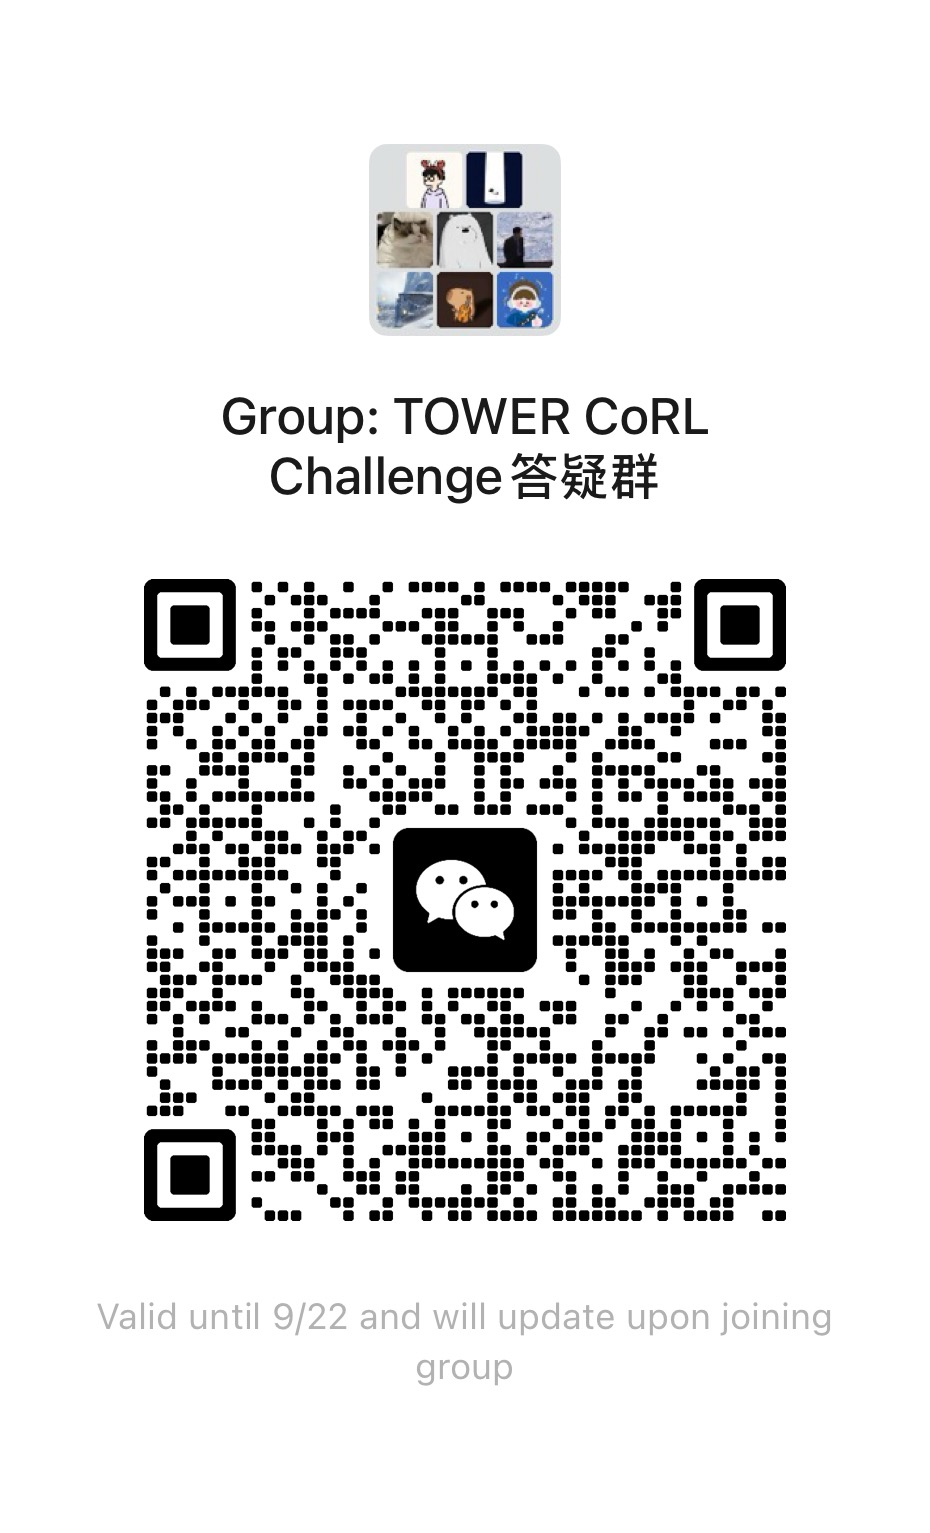
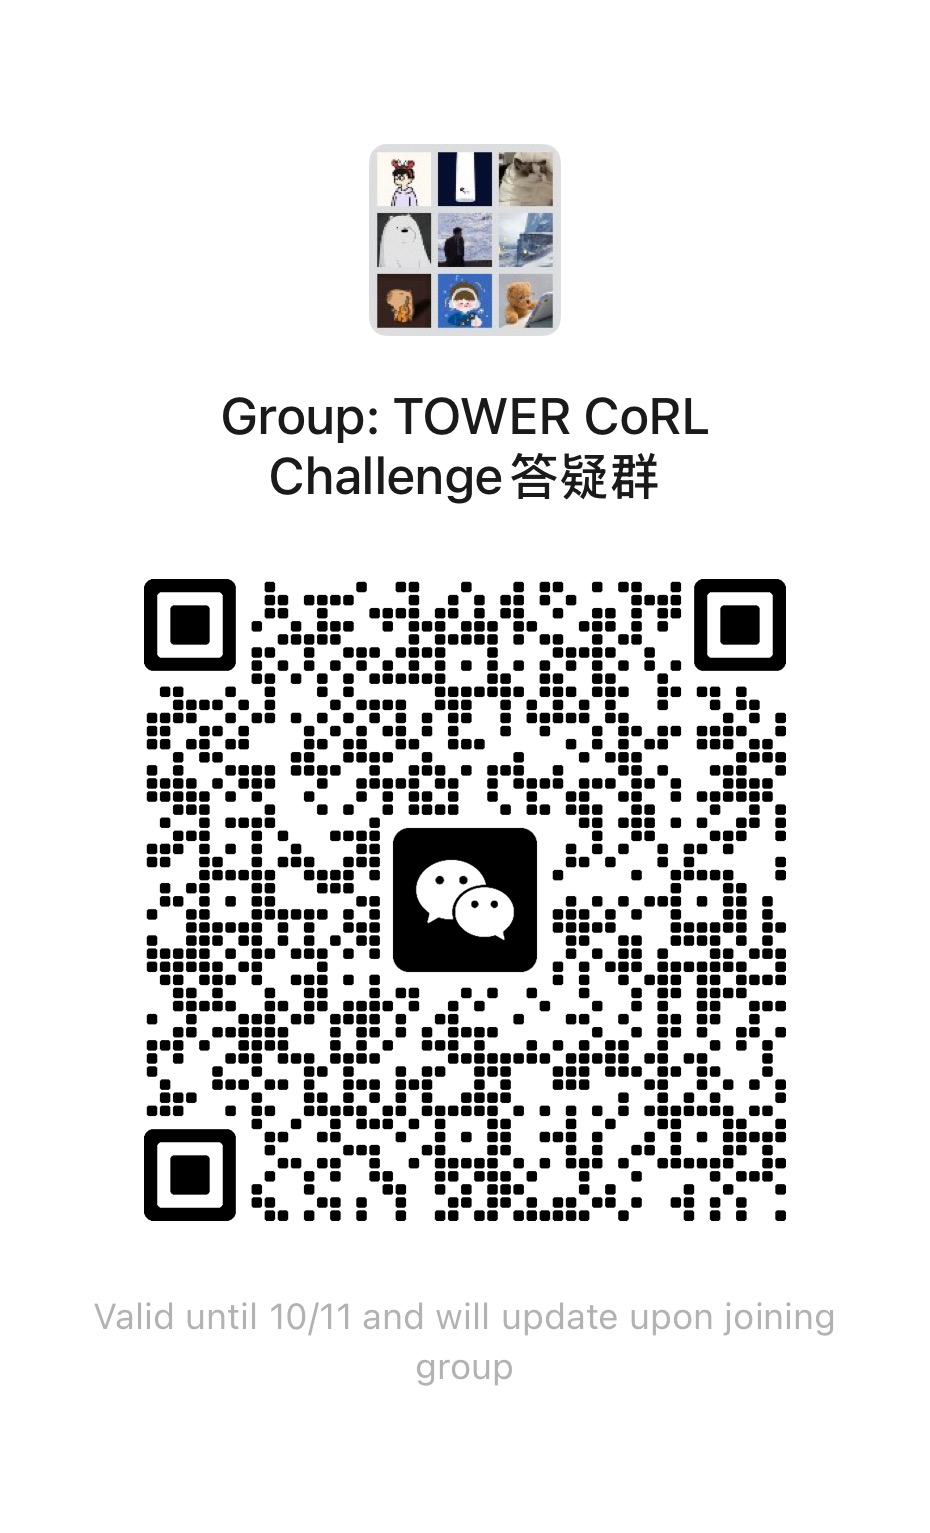
Submit via challenge website; link docs and leaderboard; refresh WeChat QR

diff --git a/README.md b/README.md
@@ -3,6 +3,9 @@
   <h1>TOWER CoRL Challenge</h1>
   <p><strong>Long-horizon bimanual tower manipulation · <a href="https://actiongapworkshop.github.io/">G2A: From Generative Models to Robot Actions (CoRL 2026 Workshop)</a></strong></p>
   <p>
+    <a href="https://challenge.tower-benchmark.com/">Website</a> ·
+    <a href="https://challenge.tower-benchmark.com/docs/">Docs</a> ·
+    <a href="https://huggingface.co/spaces/tower-benchmark/TOWER-Leaderboard">Leaderboard</a> ·
     <a href="#how-to-participate">Participate</a> ·
     <a href="#submit-your-run">Submit your run</a> ·
     <a href="docs/protocol.md">Protocol</a> ·
@@ -15,17 +18,19 @@ Long-horizon bimanual block-tower manipulation in simulation. Train a policy on
 **TOWER-SimData**, serve it behind a WebSocket endpoint, and the organizers evaluate it
 in the TOWER Isaac Sim benchmark. **You do not need to install Isaac Sim or the benchmark.**
 
-> Status: draft. Items marked **TBD** will be announced here and in the workshop WeChat group.
+> Status: draft. Items marked **TBD** will be announced on the [challenge website](https://challenge.tower-benchmark.com/), here, and in the workshop WeChat group.
 
 ## Resources
 
 | Resource | Link |
 |---|---|
+| Challenge website (submission) | [challenge.tower-benchmark.com](https://challenge.tower-benchmark.com/) |
+| Docs | [challenge.tower-benchmark.com/docs](https://challenge.tower-benchmark.com/docs/) |
 | Training data (331 episodes, 225 GiB, HDF5) | [tower-benchmark/TOWER-SimData](https://huggingface.co/datasets/tower-benchmark/TOWER-SimData) |
 | Simulation assets | [tower-benchmark/TOWER-Assets](https://huggingface.co/datasets/tower-benchmark/TOWER-Assets) |
 | Benchmark | [tower-benchmark/TOWER](https://github.com/tower-benchmark/TOWER) |
 | Policy server protocol | [docs/protocol.md](docs/protocol.md) |
-| Leaderboard | **TBD** |
+| Leaderboard | [tower-benchmark/TOWER-Leaderboard](https://huggingface.co/spaces/tower-benchmark/TOWER-Leaderboard) |
 
 ## Tasks
 
@@ -72,7 +77,7 @@ Preview images are from [TOWER-SimData](https://huggingface.co/datasets/tower-be
 
 ## How to participate
 
-1. **Register** your team: **TBD** (form link).
+1. **Register** your team on the [challenge website](https://challenge.tower-benchmark.com/).
 2. **Train** a policy on TOWER-SimData (any architecture; declare any extra data).
 3. **Serve** it with [`policy_server/serve_policy.py`](policy_server/serve_policy.py), or your
    existing openpi server. Only `Policy.infer` needs to change:
@@ -102,13 +107,14 @@ Preview images are from [TOWER-SimData](https://huggingface.co/datasets/tower-be
 
 ## Submit your run
 
-Email **[corl_action_gap_workshop_pc@googlegroups.com](mailto:corl_action_gap_workshop_pc@googlegroups.com)** with subject `[TOWER Challenge] <team name> <model version>`.
+Submit on the challenge website: **[challenge.tower-benchmark.com](https://challenge.tower-benchmark.com/)**. The step-by-step
+submission guide is in the [Docs](https://challenge.tower-benchmark.com/docs/). Have the following ready:
 
 | Item | Required | Description |
 |---|---|---|
 | `submission.json` | yes | Filled copy of [`submission/submission_template.json`](submission/submission_template.json): team, contact, model, endpoint, availability window |
 | `check_report.json` | yes | Output of `tools/check_policy.py` against the submitted endpoint, generated within 24 h of submitting |
-| API key | yes | In the email body only; use a dedicated key |
+| API key | yes | Entered only in the submission form; use a dedicated key |
 | Method description | final round | 1–2 page PDF: architecture, training data, training compute |
 
 What happens next:
@@ -168,6 +174,7 @@ and adding its authtoken. A cloud VM with a public IP works too.
 
 ## Contact
 
+- Website: [challenge.tower-benchmark.com](https://challenge.tower-benchmark.com/) · [Docs](https://challenge.tower-benchmark.com/docs/) · [Leaderboard](https://huggingface.co/spaces/tower-benchmark/TOWER-Leaderboard)
 - Email: [corl_action_gap_workshop_pc@googlegroups.com](mailto:corl_action_gap_workshop_pc@googlegroups.com)
 - Discord: [join the challenge server](https://discord.gg/RN4xGnMJ3G)
 - Questions and bug reports: open an issue in this repository.

diff --git a/docs/public_endpoint.md b/docs/public_endpoint.md
@@ -69,7 +69,7 @@ Put the `wss://` address in `submission.json` and follow
   development, with no uptime guarantee.
 - **The address changes on every restart.** Keep both terminals running for your whole
   availability window (use `tmux` or `screen` on remote servers). If the address changes,
-  email us the new one.
+  update it on the [challenge website](https://challenge.tower-benchmark.com/) or email us.
 - **Limits.** At most 200 concurrent in-flight requests (the evaluator uses far fewer);
   Server-Sent Events are unsupported, WebSocket works.
 - **Keep the API key on.** The tunnel address is public; the key is what keeps others out.
